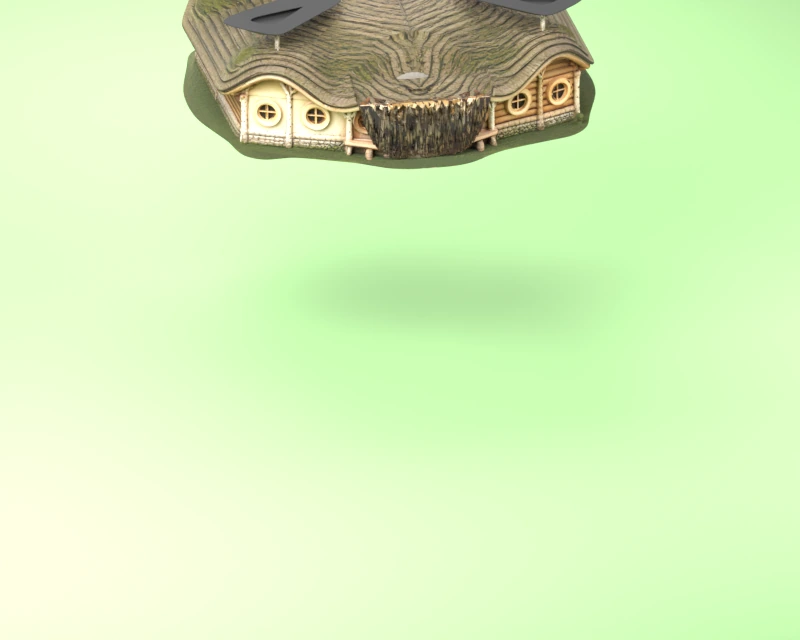
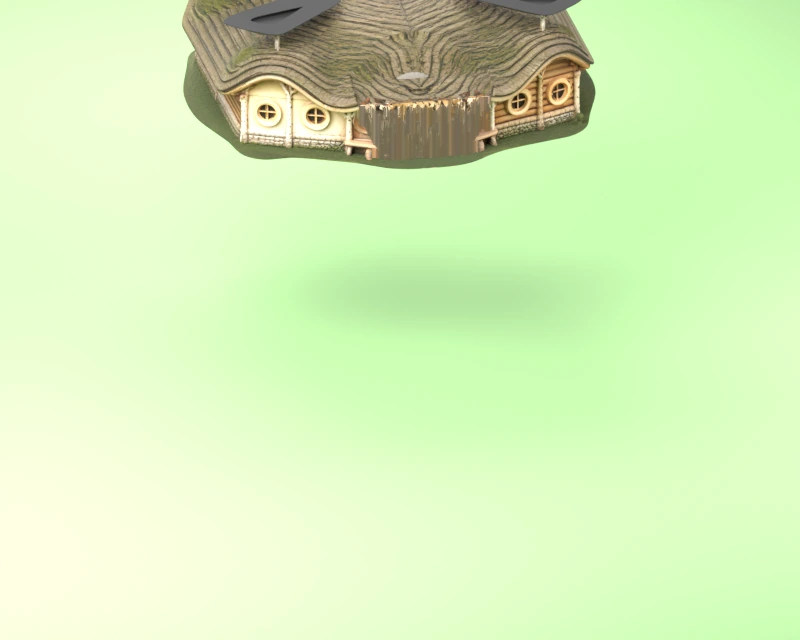
狍游记 V1.6.0
去掉森林小屋正面门帘子：用2D修复从渲染图中移除深色垂坠物，恢复成墙面自然过渡

Changed region(s): [[0.4375, 0.1562, 0.625, 0.25]]

diff --git a/index.html b/index.html
@@ -1187,7 +1187,7 @@ input[type=range]{width:100%;accent-color:var(--caramel);}
 </div>
 
 <script>
-const APP_VER='1.5.9';
+const APP_VER='1.6.0';
 const APP_DATE='2026-09-21';
 try{document.getElementById('appVer').textContent='V'+APP_VER;}catch(e){}
 const KEY='paoyouji_state_v2';
